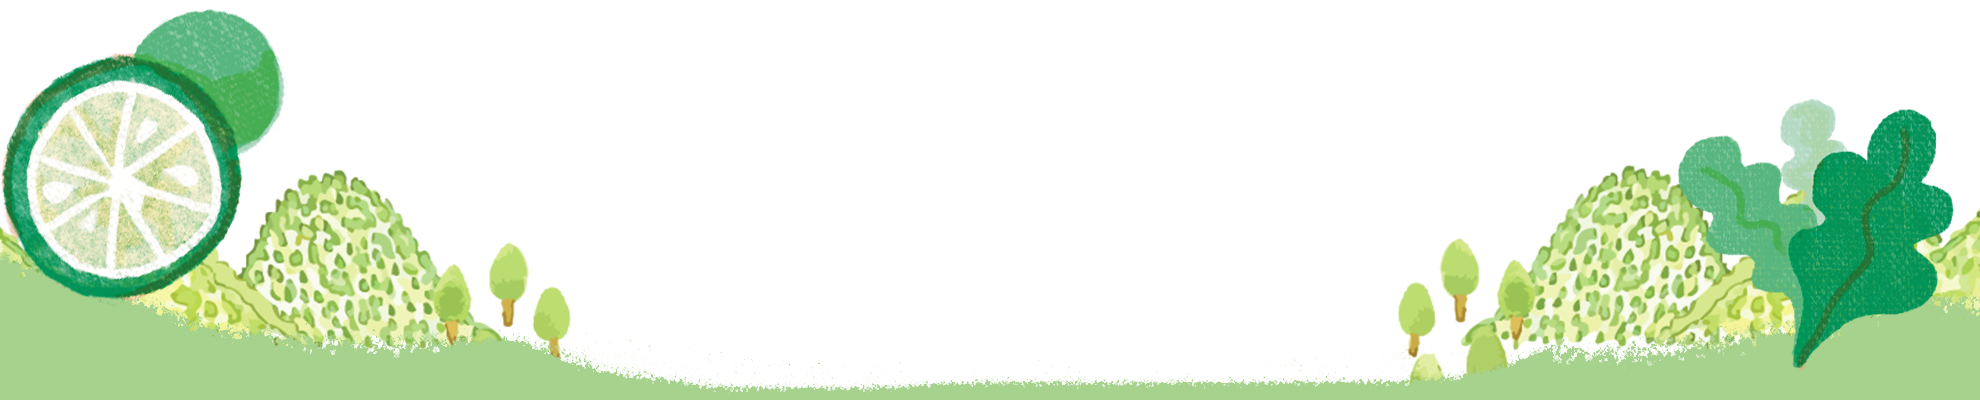
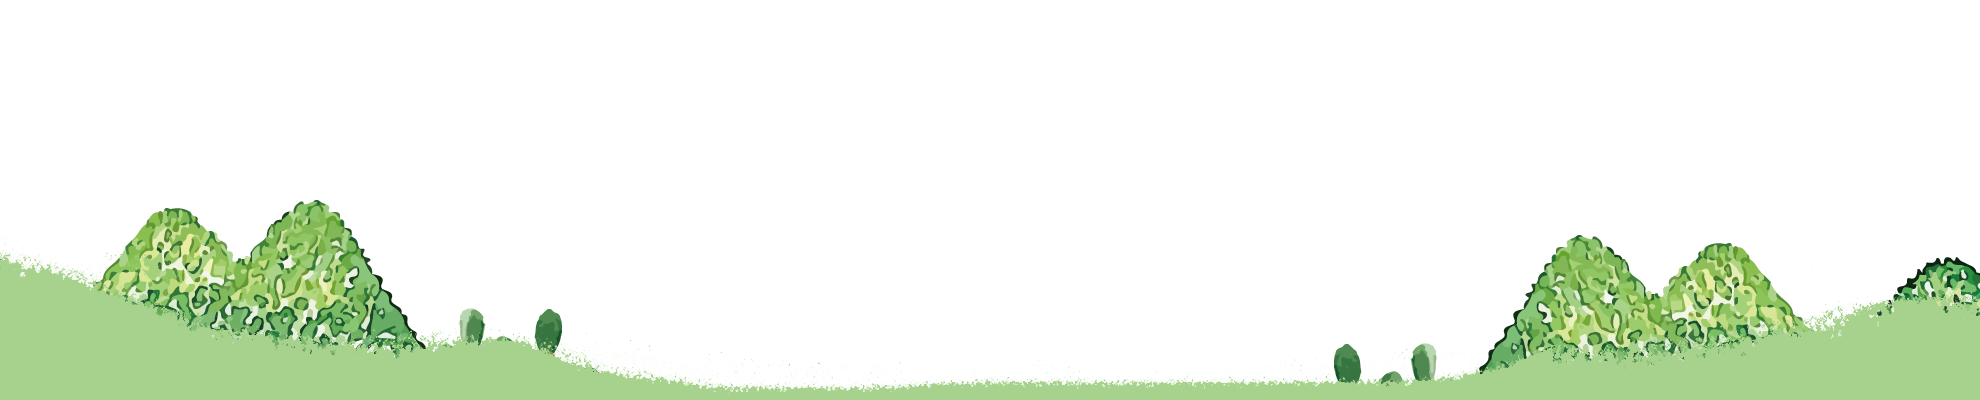
TOPページブログボタン修正
ブログボタン修正

岡田

Changed region(s): [[0.0, 0.03, 0.3081, 0.9], [0.647, 0.24, 1.0, 0.96]]

diff --git a/public/assets/css/index.css b/public/assets/css/index.css
@@ -463,6 +463,11 @@ imgcontent-wrapper .heading {
     margin-bottom: 20px;
 }
 
+/* ブログ全体を囲う要素 */
+.blog-main {
+    text-align: center;
+}
+
 /* カードの設定 */
 .blog-wrapper {
     width: 100%;
@@ -1145,6 +1150,13 @@ imgcontent-wrapper .heading {
 }
 
 @media screen and (min-width: 901px) {
+
+    /* ヘッダー背景 */
+    .header-bg {
+        position: absolute;
+        bottom: 10vh;
+    }
+
     .goods-wrapper {
         margin: 0 auto;
         width: 100%;
